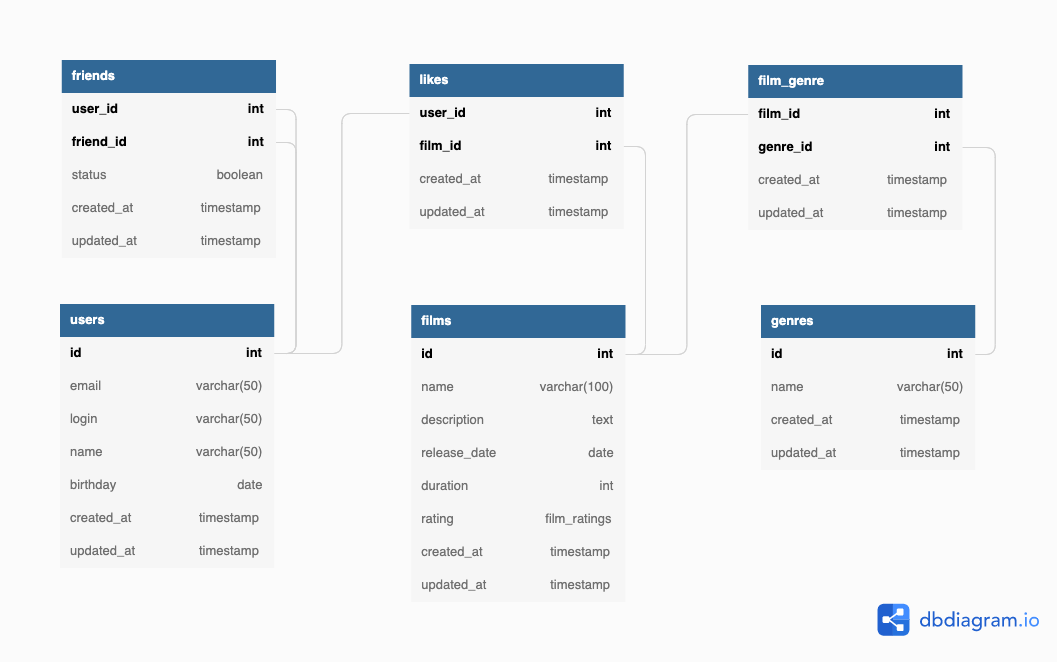
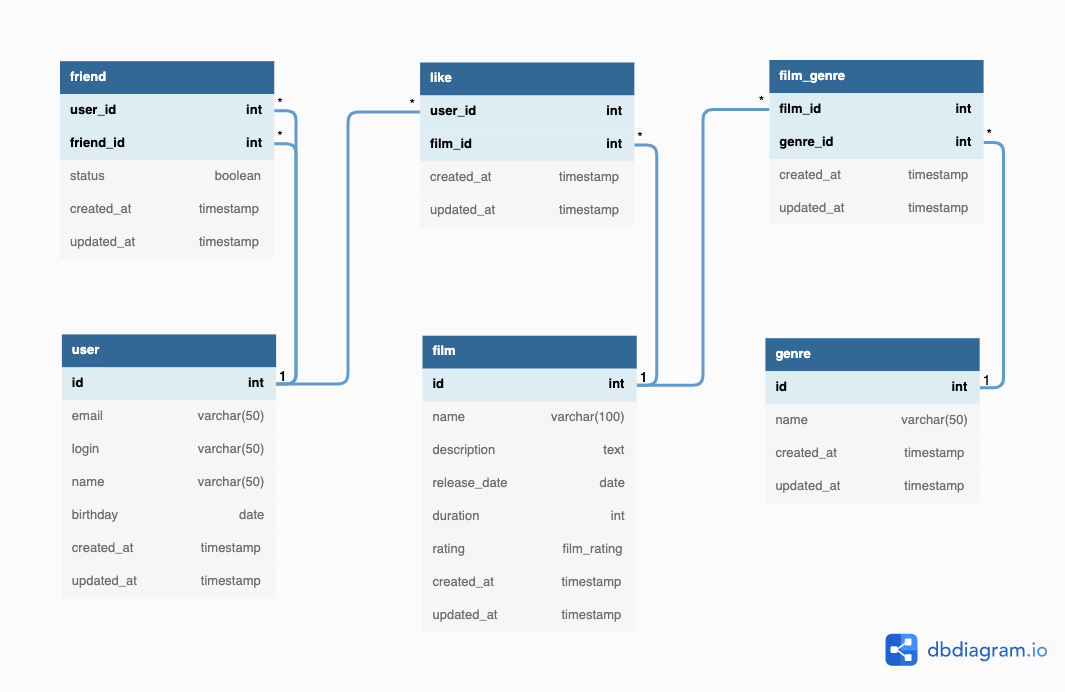
refactor: изменить названия таблиц

diff --git a/README.md b/README.md
@@ -59,27 +59,27 @@ https://dbdiagram.io/d/6280dc607f945876b61e9962
 
 ![Диаграмма БД](images/diagram.png)
 
-#### users
+#### user
 Таблица пользователей, все поля являются обязательными для заполнения, поле логин и email должны быть уникальными
 
-#### friends
+#### friend
 Таблица друзей, связи пользователей, может быть подтвержденной и не подтвержденной
 
-#### films
+#### film
 Таблица фильмов, все поля являются обязательными для заполнения, для связи с жанрами служит отдельная таблица, рейтинг 
 указывается из типа перечислений film_ratings, чтобы можно было реализовать поиск по названию фильма или описанию 
 добавлены индексы для них
 
-#### likes
+#### like
 Таблица лайков, связь пользователя и фильма
 
-#### genres
+#### genre
 Таблица жанров, поле названия является обязательным для заполнения и должно быть уникальным
 
 #### film_genre
 Таблица связи фильма и жанра
 
-#### film_ratings
+#### film_rating
 Перечесление рейтингов фильмов, в нем перечислены все рейтинги Ассоциации кинокомпаний Америки (англ. Motion Picture
 Association of America)
 
@@ -92,7 +92,7 @@ SELECT id,
         release_date,
         duration,
         rating
-FROM films 
+FROM film
 WHERE id = {id};
 ```
 Получение всех фильмов
@@ -103,7 +103,7 @@ SELECT id,
         release_date,
         duration,
         rating
-FROM films ;
+FROM film;
 ```
 Получение переданного количества популярных фильмов
 ```
@@ -114,8 +114,8 @@ SELECT f.id,
         f.duration,
         f.rating,
         COUNT(l.film_id) AS count_likes
-FROM films f
-LEFT JOIN likes l ON f.id = l.film_id
+FROM film f
+LEFT JOIN like l ON f.id = l.film_id
 GROUP BY l.film_id
 ORDER BY count_likes DESC
 LIMIT {count};
@@ -127,9 +127,9 @@ SELECT u.id,
         u.login,
         u.name,
         u.birthday
-FROM users u
-INNER JOIN friends f1 ON u.id = f1.friend_id
-INNER JOIN friends f2 ON u.id = f2.user_id
+FROM user u
+INNER JOIN friend f1 ON u.id = f1.friend_id
+INNER JOIN friend f2 ON u.id = f2.user_id
 WHERE f.status = 1
         AND (f1.user_id = {id}
         OR f2.friend_id = {id})
@@ -141,14 +141,14 @@ SELECT id,
         login,
         name,
         birthday
-FROM users 
+FROM user 
 WHERE id IN (
         SELECT user_id
-        FROM friends
+        FROM friend
         WHERE friend_id = {id}
         UNION
         SELECT friend_id
-        FROM friends
+        FROM friend
         WHERE user_id = {id}
 )
 ```
@@ -159,25 +159,25 @@ SELECT id,
         login,
         name,
         birthday
-FROM users 
+FROM user
 WHERE id IN (
         (
             SELECT user_id
-            FROM friends
+            FROM friend
             WHERE friend_id = {userId}
             UNION
             SELECT friend_id
-            FROM friends
+            FROM friend
             WHERE user_id = {userId}
         )
         INTERSECT
         (
             SELECT user_id
-            FROM friends
+            FROM friend
             WHERE friend_id = {otherUserId}
             UNION
             SELECT friend_id
-            FROM friends
+            FROM friend
             WHERE user_id = {otherUserId}
         )
 )
